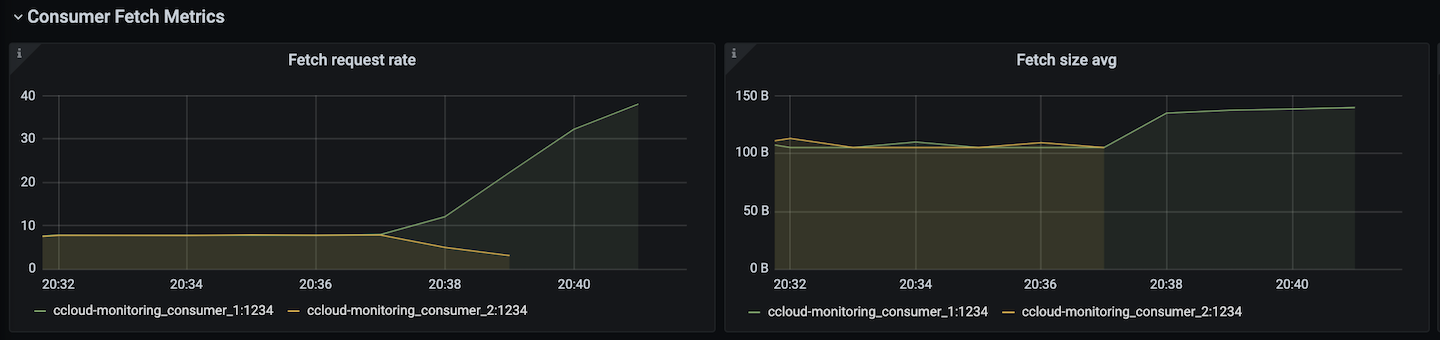
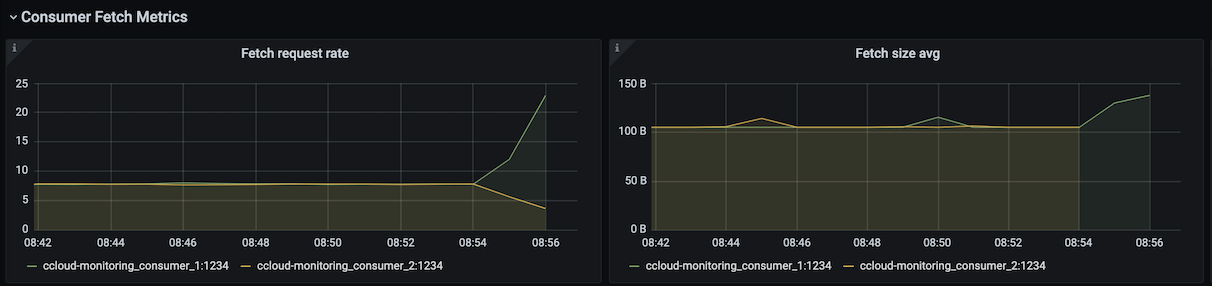
DEVX-2467: wrap up consumer lag docs

diff --git a/ccloud-monitoring/docs/consumer-scenarios/consumer-lag-problem.rst b/ccloud-monitoring/docs/consumer-scenarios/consumer-lag-problem.rst
@@ -49,15 +49,37 @@ Diagnose the problem
 
    - An upward trend in ``Consumer group lag in records``.  ``Consumer group lag in seconds`` will have a less dramatic increase. Both indicating that the producer is creating more messages than the consumer can fetch in a timely manner.
 
-   |Consumer Lag Records|
+   |Consumer Lag|
 
-   - An increase in ``Fetch request rate`` and ``Fetch size avg``, indicating the consumer is fetching more often and larger batches.
+   - An increase in ``Fetch request rate`` and ``Fetch size avg`` in the ``Consumer Fetch Metrics`` tab, indicating the consumer is fetching more often and larger batches.
 
    |Consumer Fetch Increase|
 
    - All of the graphs in the ``Throughput`` are indicating the consumer is processing more bytes/records.
 
    |Consumer Throughput Increase|
+
+#. A top level view of the |ccloud| cluster that reflects an increase in bytes produced and bytes consumed can be viewed in the ``Confluent Cloud`` dashboard in the panels highlighted below.
+
+   |Confluent Cloud Request Increase|
+
+#. The consumer logs won't show that the consumer is falling behind which is why it is important to keep an eye on consumer group metrics.
+   Logs will tell us that the consumer group rebalanced, the logs can be accessed with the following command:
+
+   .. code-block:: bash
+
+      docker-compose logs consumer
+
+   They should look something like what is below:
+
+   .. code-block:: text
+
+      consumer_1            | [2021-02-24 16:04:45,659] INFO [Consumer clientId=consumer-demo-cloud-monitoring-1-1, groupId=demo-cloud-monitoring-1] Attempt to heartbeat failed since group is rebalancing (org.apache.kafka.clients.consumer.internals.AbstractCoordinator)
+      consumer_1            | [2021-02-24 16:04:45,695] INFO [Consumer clientId=consumer-demo-cloud-monitoring-1-1, groupId=demo-cloud-monitoring-1] Revoke previously assigned partitions demo-topic-1-1, demo-topic-1-2, demo-topic-1-0, demo-topic-1-5, demo-topic-1-3, demo-topic-1-4 (org.apache.kafka.clients.consumer.internals.ConsumerCoordinator)
+      consumer_1            | [2021-02-24 16:04:45,695] INFO [Consumer clientId=consumer-demo-cloud-monitoring-1-1, groupId=demo-cloud-monitoring-1] (Re-)joining group (org.apache.kafka.clients.consumer.internals.AbstractCoordinator)
+      consumer_1            | [2021-02-24 16:04:45,748] INFO [Consumer clientId=consumer-demo-cloud-monitoring-1-1, groupId=demo-cloud-monitoring-1] Successfully joined group with generation Generation{generationId=42, memberId='consumer-demo-cloud-monitoring-1-1-b0bec0b5-ec84-4233-9d3e-09d132b9a3c7', protocol='range'} (org.apache.kafka.clients.consumer.internals.AbstractCoordinator)
+      consumer_1            | [2021-02-24 16:04:45,750] INFO [Consumer clientId=consumer-demo-cloud-monitoring-1-1, groupId=demo-cloud-monitoring-1] Finished assignment for group at generation 42: {consumer-demo-cloud-monitoring-1-1-b0bec0b5-ec84-4233-9d3e-09d132b9a3c7=Assignment(partitions=[demo-topic-1-3, demo-topic-1-4, demo-topic-1-5]), consumer-demo-cloud-monitoring-1-1-261ae825-8cd3-427b-a9f6-cde4849915b1=Assignment(partitions=[demo-topic-1-0, demo-topic-1-1, demo-topic-1-2])} (org.apache.kafka.clients.consumer.internals.ConsumerCoordinator)
+      consumer_1            | [2021-02-24 16:04:45,794] INFO [Consumer clientId=consumer-demo-cloud-monitoring-1-1, groupId=demo-cloud-monitoring-1] Successfully synced group in generation Generation{generationId=42, memberId='consumer-demo-cloud-monitoring-1-1-b0bec0b5-ec84-4233-9d3e-09d132b9a3c7', protocol='range'}  (org.apache.kafka.clients.consumer.internals.AbstractCoordinator)
 
 Resolve failure scenario
 ^^^^^^^^^^^^^^^^^^^^^^^^
@@ -90,9 +112,9 @@ Resolve failure scenario
    image:: ../images/rebalance-bump.png
    :alt: Consumer Rebalance Bump
 
-.. |Consumer Lag Records|
-   image:: ../images/consumer-lag-records.png
-   :alt: Consumer Lag Records
+.. |Consumer Lag|
+   image:: ../images/consumer-group-lag.png
+   :alt: Consumer Lag
 
 .. |Consumer Fetch Increase|
    image:: ../images/consumer-fetch-increase.png
@@ -101,3 +123,7 @@ Resolve failure scenario
 .. |Consumer Throughput Increase|
    image:: ../images/consumer-throughput-increase.png
    :alt: Consumer Throughput Increase
+
+.. |Confluent Cloud Request Increase|
+   image:: ../images/ccloud-request-increase.png
+   :alt: Confluent Cloud Request Increase
